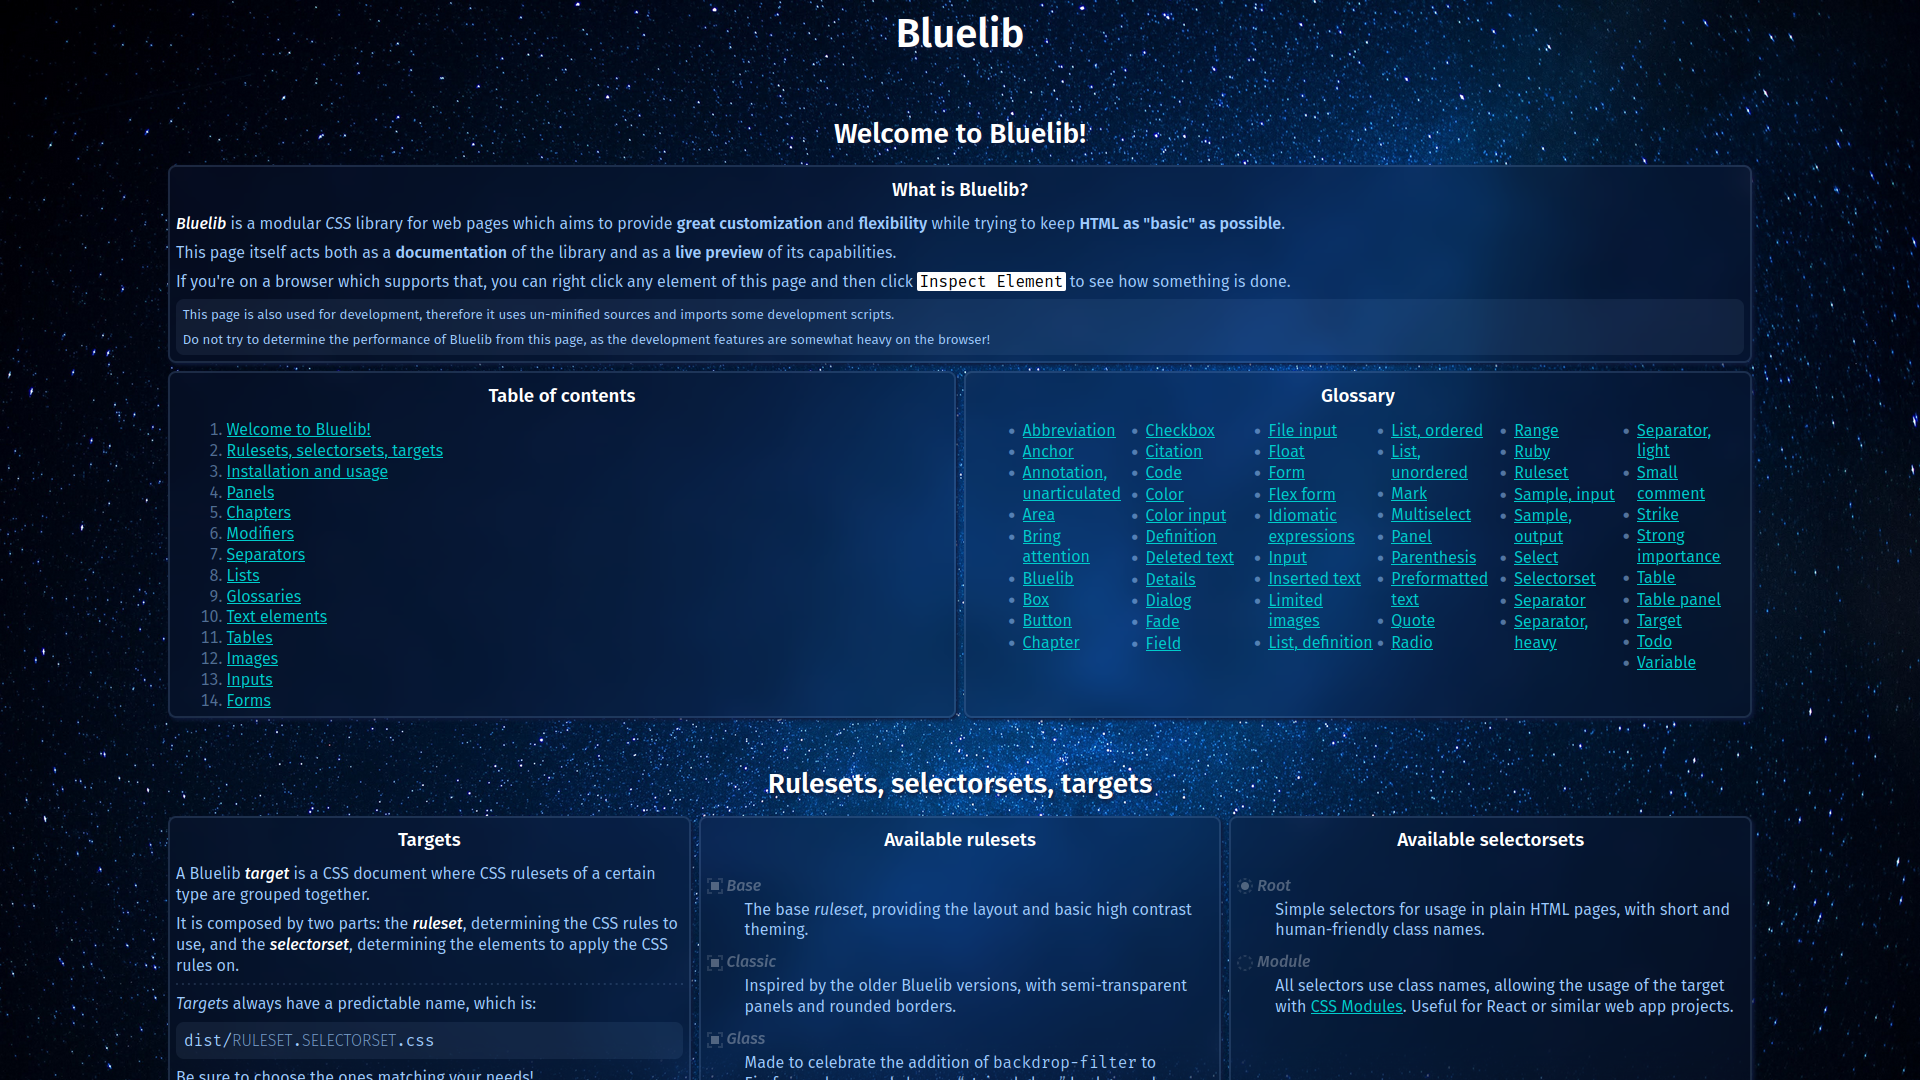
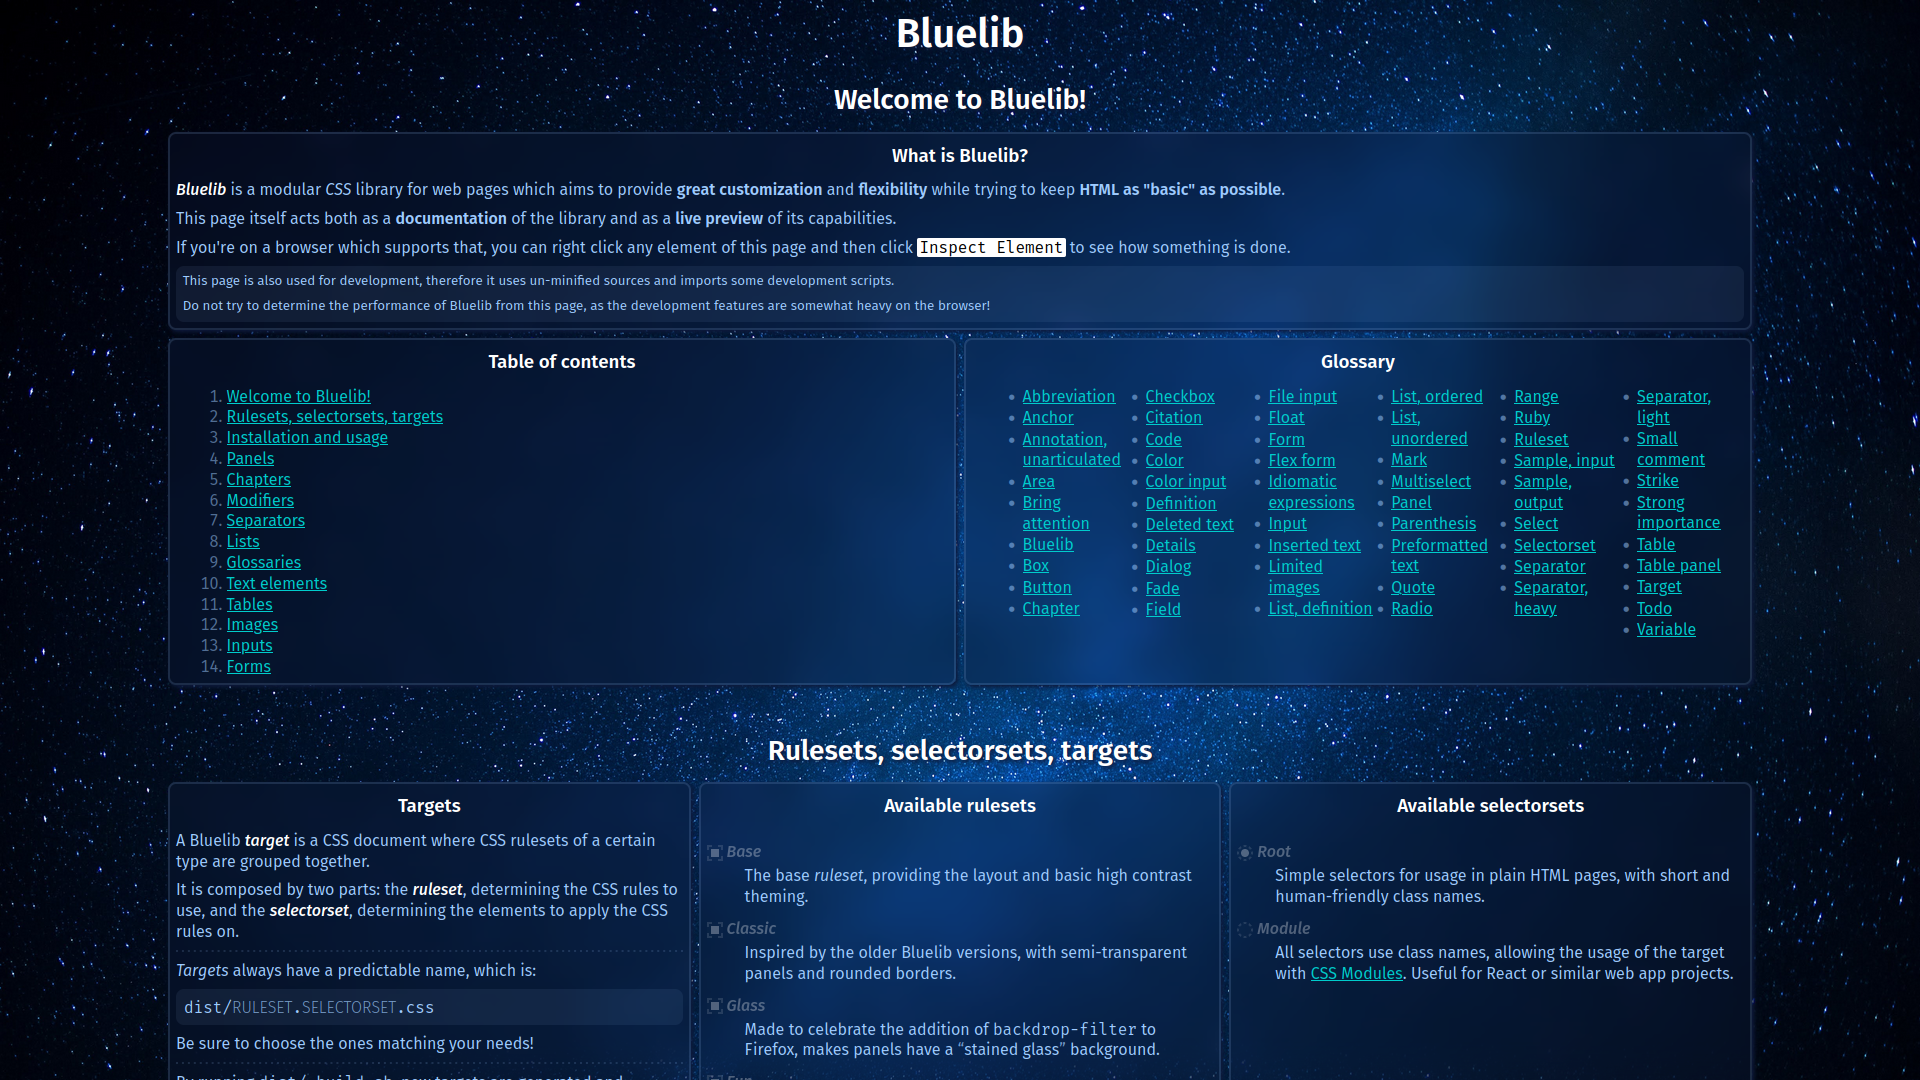
Remove margin from the top title

diff --git a/examples/index.html b/examples/index.html
@@ -33,7 +33,7 @@
                     Bluelib
                 </h1>
                 <div class="chapter-1" id="chapter-welcome">
-                    <h2>
+                    <h2 style="margin-top: 0;">
                         Welcome to Bluelib!
                     </h2>
                     <section class="panel box" id="panel-what-is-bluelib">
